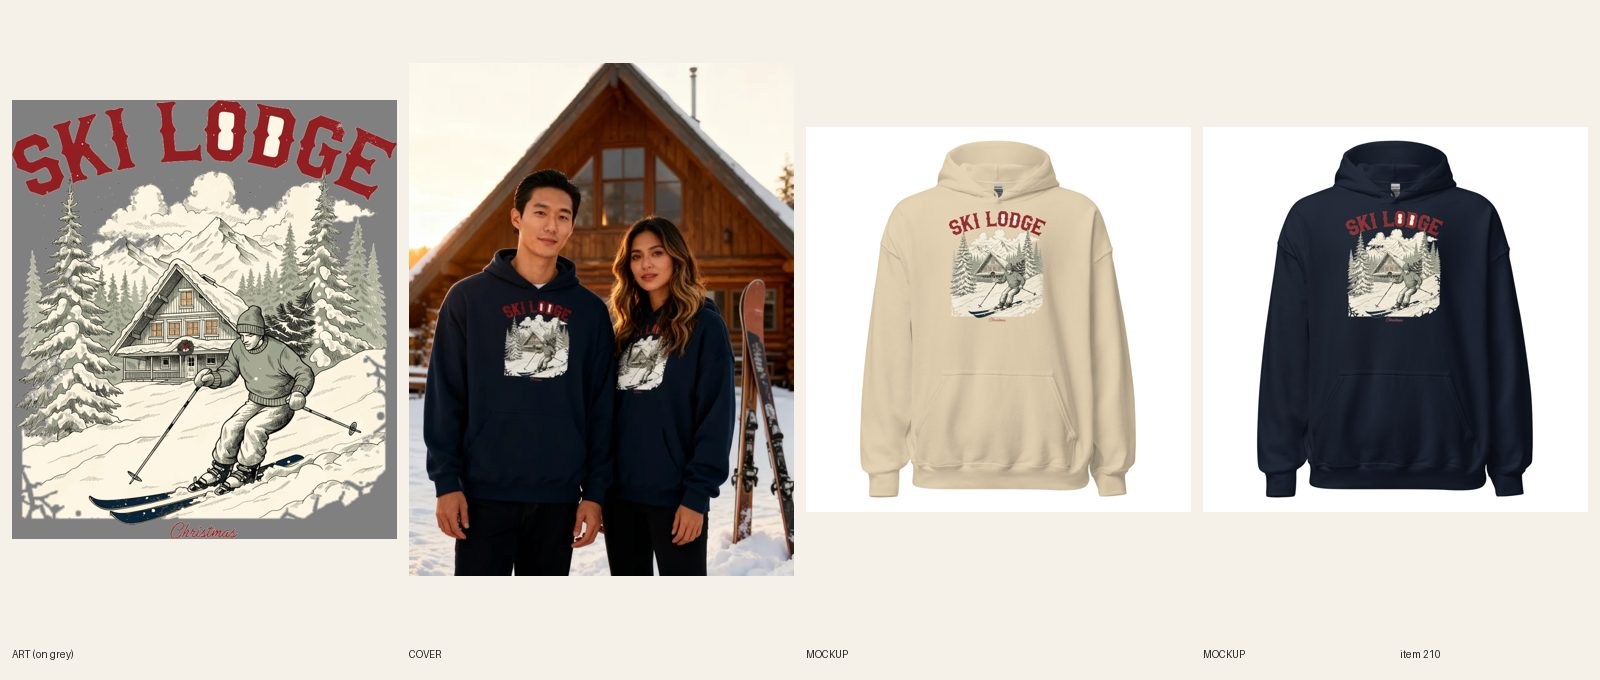
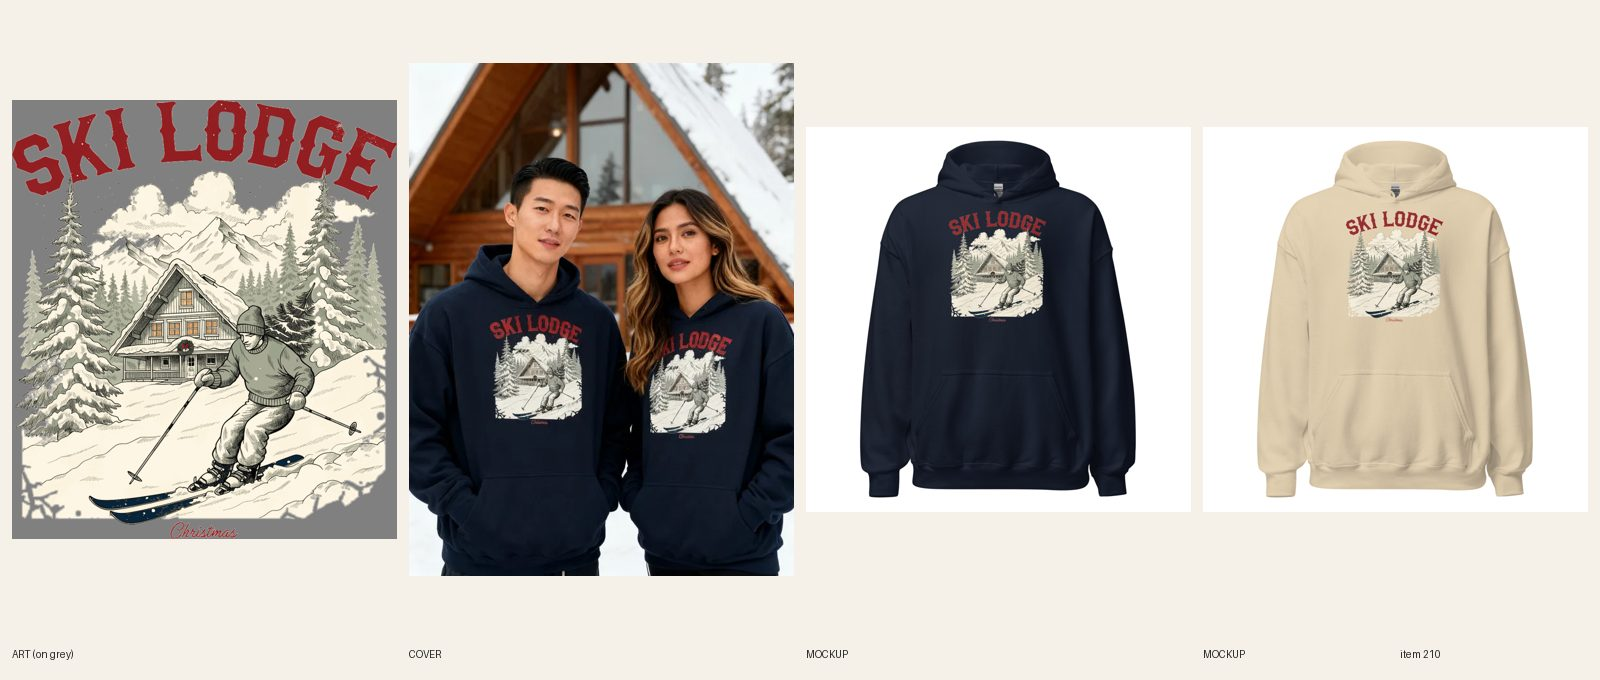
[A] redo 210 Ski Lodge hoodie: counters knocked out, new mockups and cover (sync queued)

diff --git a/src/data/covers.ts b/src/data/covers.ts
@@ -210,7 +210,7 @@ export const covers: Record<string, { src: string; alt: string }> = {
   'womens-christmas-vintage-snowman-hoodie': { src: '/covers/womens-christmas-vintage-snowman-hoodie.webp', alt: 'Woman with voluminous dark curls and red lipstick smiling on a snowy small-town main street at dusk with wreaths on the lampposts, wearing the navy Vintage Snowman hoodie' },
   'womens-christmas-golf-hoodie': { src: '/covers/womens-christmas-golf-hoodie.webp', alt: 'Woman in her late 40s with a silver-blonde bob in a navy Christmas Golf hoodie on a frosty clubhouse porch with a golf bag and wreath' },
   'unisex-christmas-mountain-christmas-bear-hoodie': { src: '/covers/unisex-christmas-mountain-christmas-bear-hoodie.webp', alt: 'Man and woman in matching navy Mountain Christmas bear hoodies on a snowy cabin porch with a wreath' },
-  'unisex-christmas-ski-lodge-hoodie': { src: '/covers/unisex-christmas-ski-lodge-hoodie.webp', alt: 'Man and woman in matching navy Ski Lodge hoodies outside a snowy A-frame lodge with skis propped beside them' },
+  'unisex-christmas-ski-lodge-hoodie': { src: '/covers/unisex-christmas-ski-lodge-hoodie.webp', alt: 'Man and woman in matching navy Ski Lodge hoodies with the hoods up behind their necks and hands in their pockets outside a snowy A-frame ski lodge' },
   'womens-christmas-golden-retriever-christmas-hoodie': { src: '/covers/womens-christmas-golden-retriever-christmas-hoodie.webp', alt: 'Woman in her early 50s with a silver pixie cut in a Sand Golden Retriever Christmas hoodie in a snowy front yard beside a golden retriever' },
   'womens-christmas-on-the-farm-horse-hoodie': { src: '/covers/womens-christmas-on-the-farm-horse-hoodie.webp', alt: 'Woman with long box braids in a Sport Grey Christmas on the Farm horse hoodie in a snowy barn aisle with a horse at the stall door' },
   'womens-christmas-dough-ho-ho-graphic-tee': { src: '/covers/womens-christmas-dough-ho-ho-graphic-tee.webp', alt: 'Woman with shoulder-length black hair and bangs in a heather grey Dough Ho Ho Christmas tee in a warm kitchen with cookies cooling behind her' },

diff --git a/docs/pipeline/210-christmas-hoodie-ski-lodge.md b/docs/pipeline/210-christmas-hoodie-ski-lodge.md
@@ -1,4 +1,4 @@
-status: REDO
+status: BUILDING [A] 2026-10-16 21:57 UTC
 lane: A
 type: twin
 id: 210
@@ -24,3 +24,4 @@ handle: unisex-christmas-ski-lodge-hoodie
   1. R5.3.8 letter fills: the O and D in SKI LODGE have solid cream counters, which read as white blobs on Navy (clear on the Navy mockup). Knock the counters of O and D (and any other closed letter) out of the Navy print file with scripts/knock-white.py, keep the snow scene's cream as is, re-upload and re-link the Navy variants (Sand can keep its file if it looks right there; check the same counters on Sand).
   2. R6.9: on the cover her hair falls across the print and hides most of SKI LODGE, and both prints are small and soft. Use your R6.9 extra attempt from the new Navy Printful mockup as `--design`: her hair behind the shoulders or tucked, the hood visible on both, every word of SKI LODGE readable on both shirts.
   3. Regenerate the Navy mockup + variant images after the file fix, then REVIEW.
+- 2026-10-16 21:57 UTC builder [A]: REDO per director: (1) knocked the solid cream counters of O and D out of the print (new file 1087849546, same 3600x4109, FW=1401 TOP=0; counters now show the garment on Navy and Sand, snow scene untouched); (2) new Navy and Sand mockups, images replaced in place with fileUpdate (variant links and alts kept); (3) cover regenerated from the Navy Printful mockup, 3 images x 2 calls (first call used the wrong woman, redone with the registry's #283), hair behind shoulders in the prompt; kept #2: hood visible on both and his SKI LODGE reads fully, her hair still falls over the left edge of SKI on hers, director may look. Re-link queued (FORCE=1 FW=1401 TOP=0 setfile 482276514 1087849546 1080398177). REVIEW once synced = 12.
